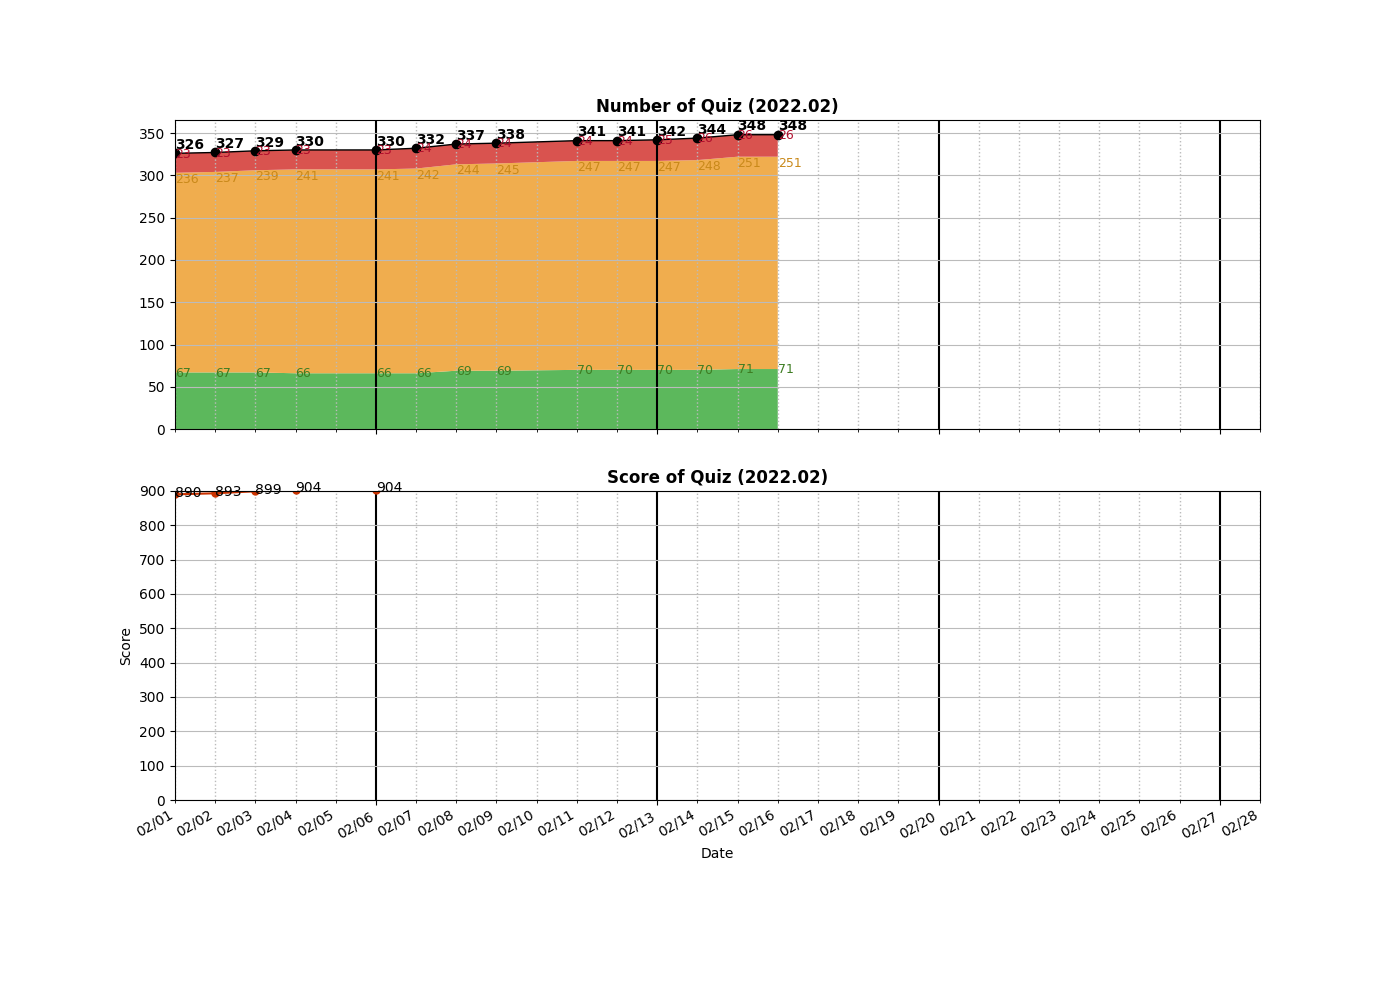
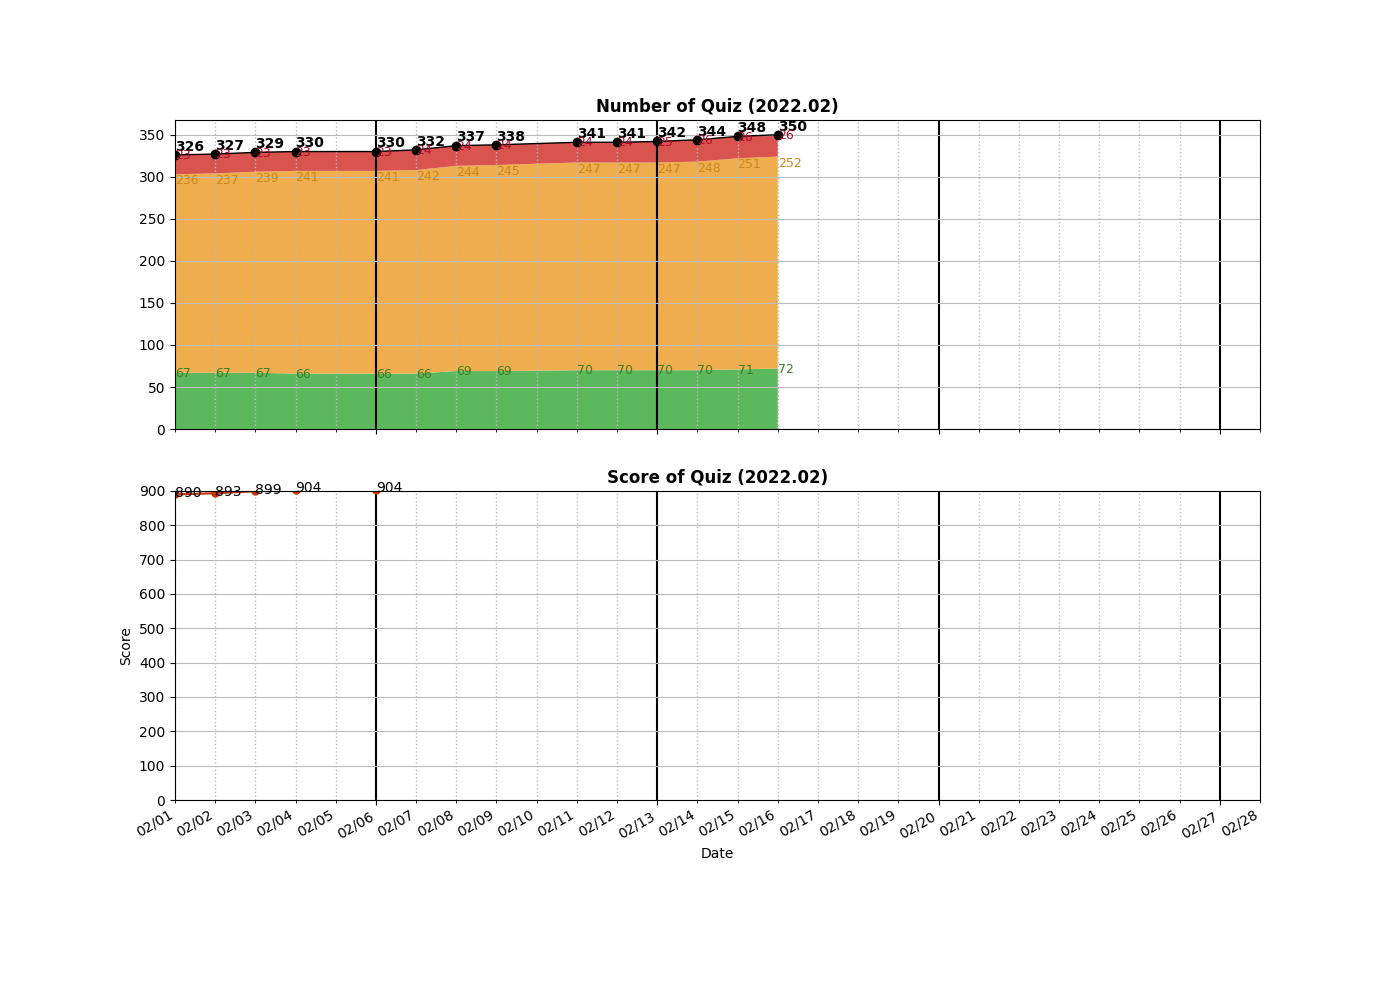
Added __0198__House Robber.py

Changed region(s): [[0.0921, 0.124, 0.5836, 0.186], [0.0921, 0.248, 0.1229, 0.279]]

diff --git a/algo/DP/__0198__House Robber.py b/algo/DP/__0198__House Robber.py
@@ -1,0 +1,32 @@
+class Solution:      
+    
+    # 2022/02/16
+    # DP 1D [O(n): 38%]
+    def rob(self, nums: List[int]) -> int:
+        print("Code2")
+        if len(nums) == 1:
+            return nums[0]
+        if len(nums) == 2:
+            return max(nums[0], nums[1])
+        
+        dp = [0 for _ in range(len(nums))]
+        dp[0] = nums[0]
+        dp[1] = max(nums[0], nums[1])
+        
+        for i in range(2, len(nums)):
+            dp[i] = max(dp[i-1], dp[i-2] + nums[i])
+        return dp[-1]
+        
+    # ==============================    
+    # DP 2D [O(n): 5%]
+    def rob1(self, nums: List[int]) -> int:
+        print("Code1")
+        dp = [[0 for _ in range(2)] for _ in range(len(nums))] #use, not use
+        dp[0][0] = nums[0]
+        dp[0][1] = 0
+        for i, v in enumerate(nums):
+            if i == 0:
+                continue
+            dp[i][0] = dp[i-1][1] + nums[i]
+            dp[i][1] = max(dp[i-1][0], dp[i-1][1])
+        return max(dp[-1][0], dp[-1][1])

diff --git a/algo/Queue/__0346__Moving Average from Data Stream.py b/algo/Queue/__0346__Moving Average from Data Stream.py
@@ -1,0 +1,21 @@
+class MovingAverage:
+
+    def __init__(self, size: int):
+        """
+        Initialize your data structure here.
+        """
+        self.size = size
+        self.sum = 0
+        self.deq = collections.deque()
+
+    def next(self, val: int) -> float:
+        self.deq.append(val)
+        self.sum += val 
+        if len(self.deq) > self.size:
+            popleft = self.deq.popleft()
+            self.sum -= popleft
+        return self.sum / len(self.deq)
+            
+# Your MovingAverage object will be instantiated and called as such:
+# obj = MovingAverage(size)
+# param_1 = obj.next(val)

diff --git a/README.md b/README.md
@@ -117,6 +117,7 @@ algo
 │   ├── __0121__Best Time to Buy and Sell Stock.py
 │   ├── __0123__Best Time to Buy and Sell Stock III.py
 │   ├── __0152__Maximum Product Subarray.py
+│   ├── __0198__House Robber.py
 │   ├── __0221__Maximal Square.py
 │   ├── __0279__Perfect Squares.py
 │   ├── __0300__Longest Increasing Subsequence.py
@@ -249,6 +250,8 @@ algo
 │   ├── __1438__Longest Continuous Subarray With Absolute Diff Less Than or Equal to Limit.py
 │   ├── __1475__Final Prices With a Special Discount in a Shop.py
 │   └── __1762__Buildings With an Ocean View.py
+├── Queue
+│   └── __0346__Moving Average from Data Stream.py
 ├── Recursion
 │   ├── __0095__Unique Binary Search Trees II.py
 │   ├── __0241__Different Ways to Add Parentheses.py
@@ -391,7 +394,7 @@ algo
 └── _Template
     └── BinarySearch.py
 
-29 directories, 361 files
+30 directories, 363 files
 
 =====================================
 ============= Local Repo ============
@@ -515,6 +518,7 @@ __0167__Two Sum II - Input array is sorted.py
 __0173__Binary Search Tree Iterator.py
 __0187__Repeated DNA Sequences.py
 __0189__Rotate Array.py
+__0198__House Robber.py
 __0199__Binary Tree Right Side View.py
 __0200__Number of Islands.py
 __0206__Reverse Linked List.py
@@ -572,6 +576,7 @@ __0332__Reconstruct Itinerary.py
 __0333__Largest BST Subtree.py
 __0340__Longest Substring with At Most K Distinct Characters.py
 __0341__Flatten Nested List Iterator.py
+__0346__Moving Average from Data Stream.py
 __0347__Top K Frequent Elements.py
 __0349__Intersection of Two Arrays.py
 __0350__Intersection of Two Arrays II.py
@@ -745,7 +750,7 @@ __2154__Keep Multiplying Found Values by Two.py
 __2155__All Divisions With the Highest Score of a Binary Array.py
 __2156__Find Substring With Given Hash Value.py
 =====================================
-Num of Python Practice:  348
+Num of Python Practice:  350
 
 
 =====================================
@@ -870,6 +875,7 @@ Num of Python Practice:  348
  0173 Binary Search Tree Iterator
  0187 Repeated DNA Sequences
  0189 Rotate Array
+ 0198 House Robber
  0199 Binary Tree Right Side View
  0200 Number of Islands
  0206 Reverse Linked List
@@ -927,6 +933,7 @@ Num of Python Practice:  348
  0333 Largest BST Subtree
  0340 Longest Substring with At Most K Distinct Characters
  0341 Flatten Nested List Iterator
+ 0346 Moving Average from Data Stream
  0347 Top K Frequent Elements
  0349 Intersection of Two Arrays
  0350 Intersection of Two Arrays II
@@ -1100,11 +1107,11 @@ Num of Python Practice:  348
  2155 All Divisions With the Highest Score of a Binary Array
  2156 Find Substring With Given Hash Value
 =====================================
-Solved / Total (Easy)  :   71 /  546
-Solved / Total (Medium):  251 / 1159
+Solved / Total (Easy)  :   72 /  546
+Solved / Total (Medium):  252 / 1159
 Solved / Total (Hard)  :   26 /  468
-Solved / Total (All)   :  348 / 2173
-Total Score            :  954
+Solved / Total (All)   :  350 / 2173
+Total Score            :  958
 =====================================
 
 ```
